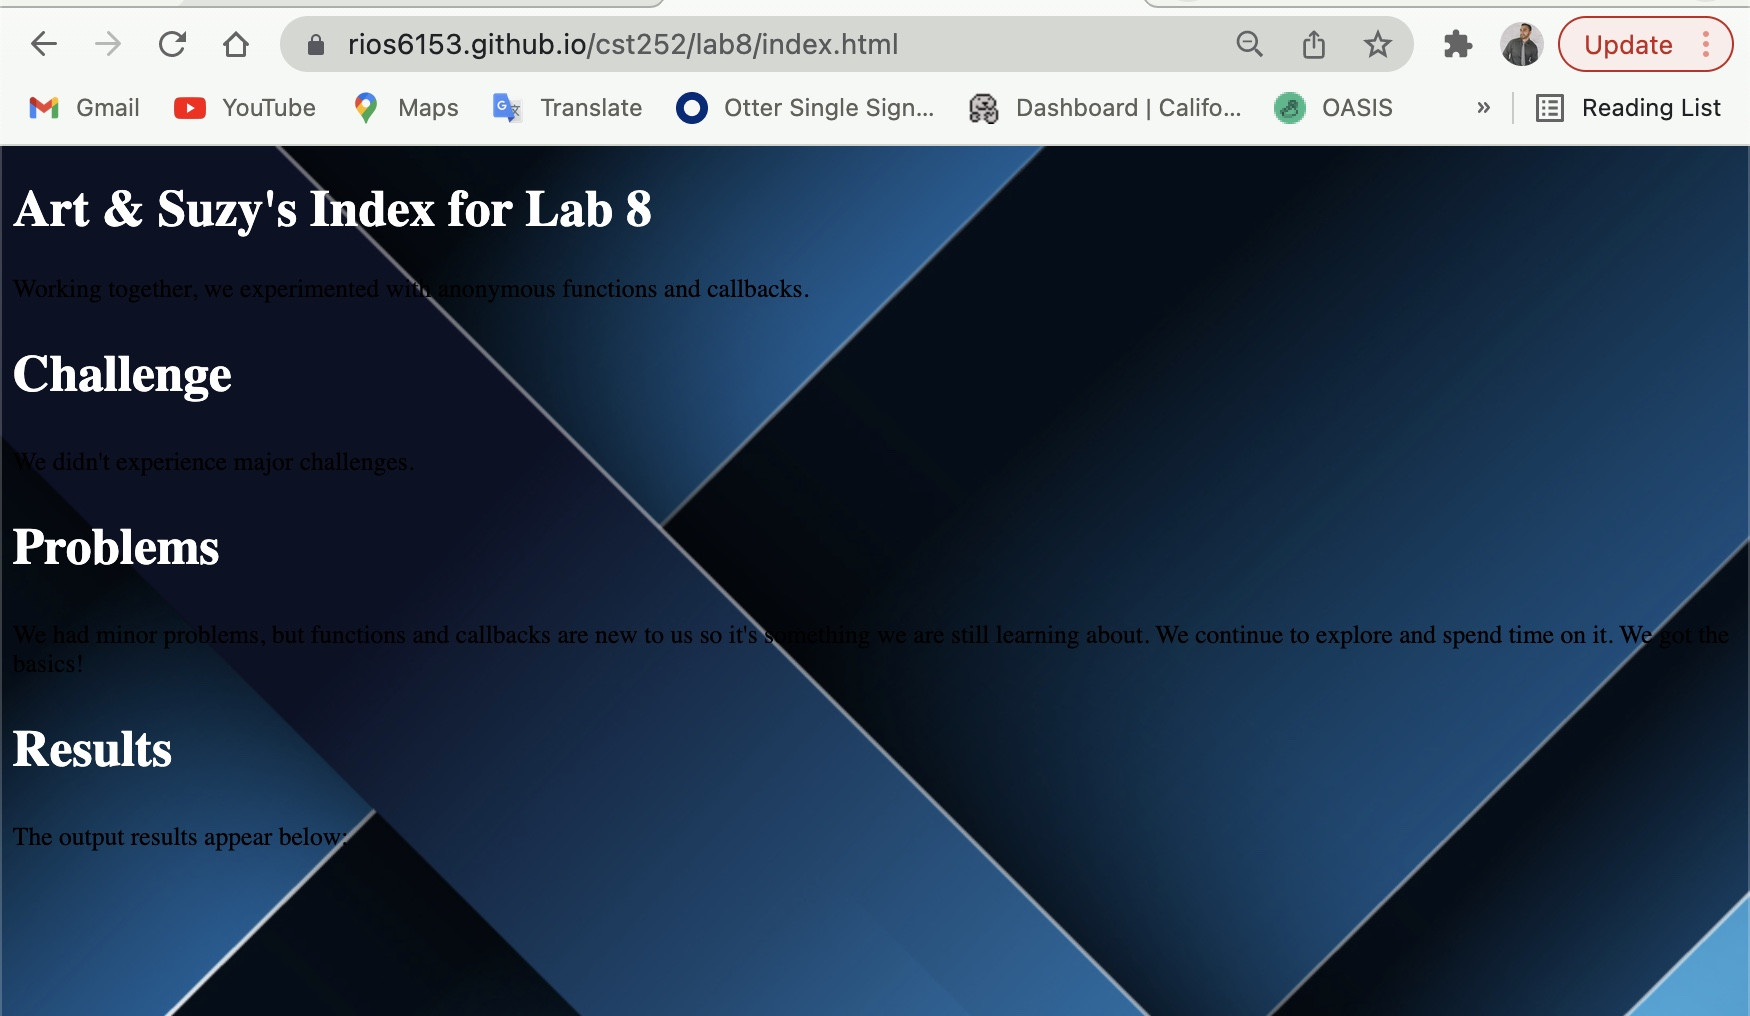
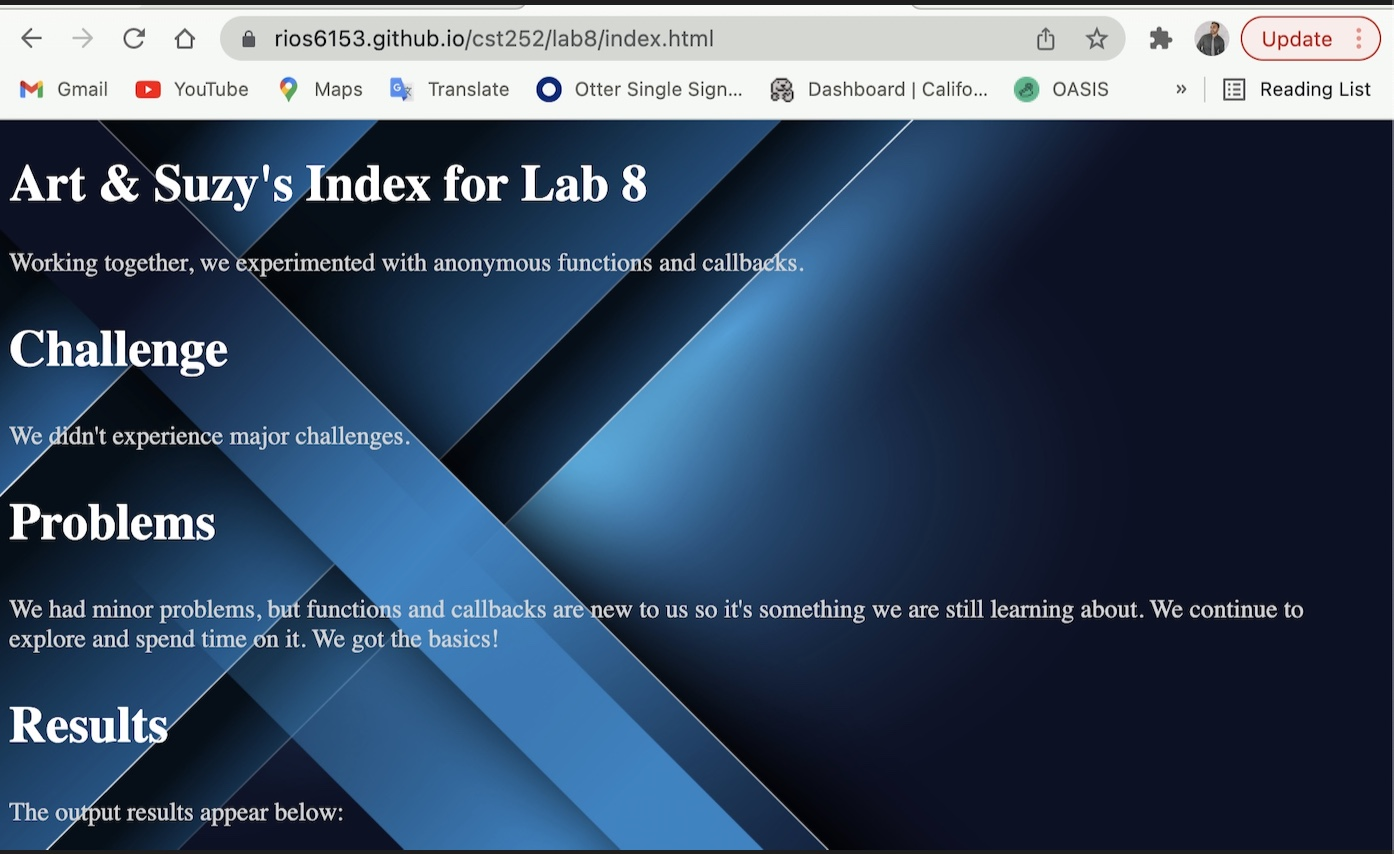
img updated

diff --git a/lab13/css/lab.css b/lab13/css/lab.css
@@ -1,3 +1,11 @@
+body {
+      background-image: url("../img/background3.jpg");
+      background-repeat: no-repeat;
+      -webkit-background-size: cover;
+      background-size: cover;
+    }
+
+
 h1 {
   font-family: arial black;
   padding-left: 75px;
